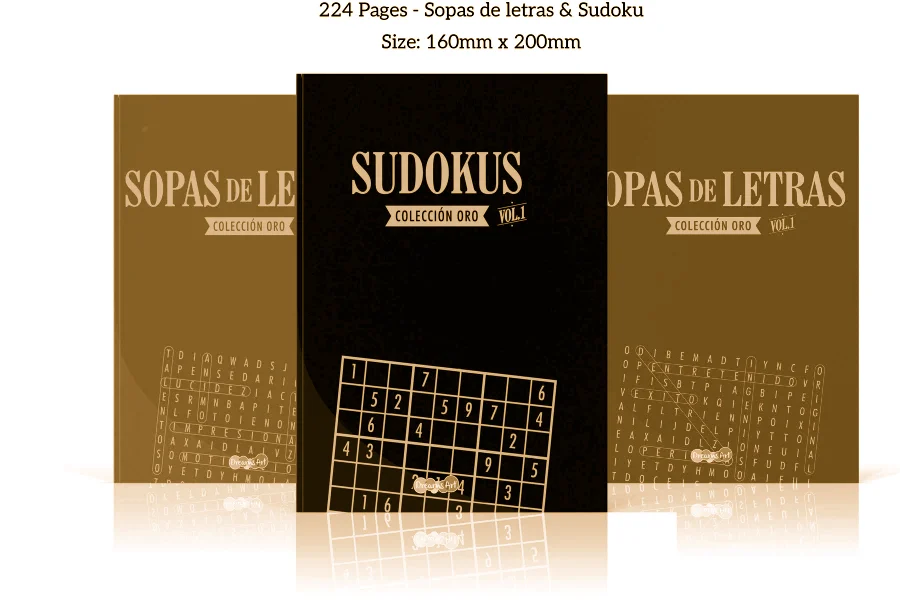
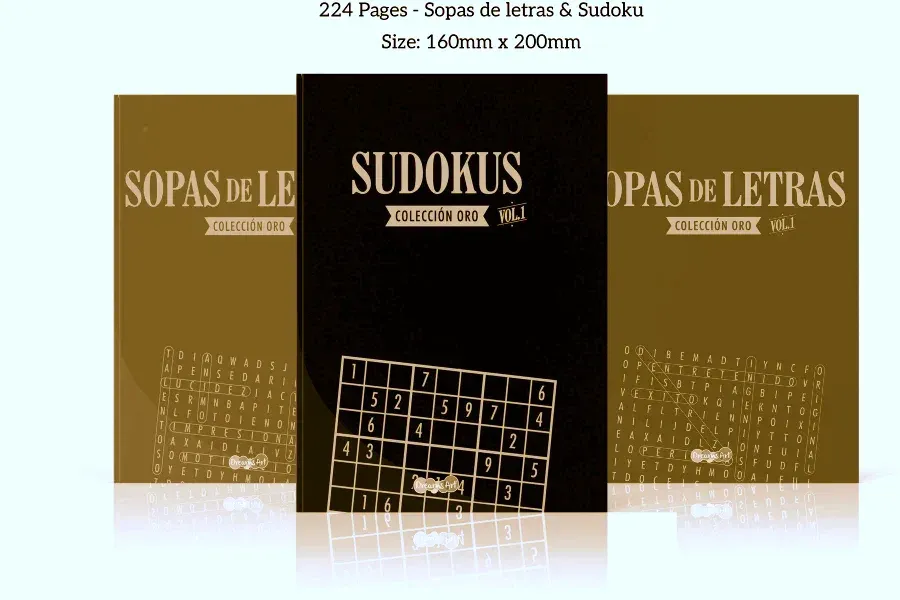
Infrastructure cards: warm gold glow-border + de-sepia'd facility photos
Rebrand the Uiverse glow-border mechanic onto the three facility cards, tuned
for the cream section ground (this band is #f0ebe0, not black):
- Card split into a transparent glow host + opaque .infra-card-inner so the
  negative-z glow sits behind the cream face even while the card lifts on hover.
- ::before crisp gold->navy gradient rim (Uiverse signature edge) + ::after soft
  blurred deep-gold backlight = warm aura on cream, premium not neon. Lower
  opacity + tighter blur than the dark-ground destinations glow so it can't wash
  out. Square corners (Ekta's law). Scale-only breathe (compositor-cheap, 60fps),
  no rotate. gold->olive variant available via [data-glow="olive"]; judged ->
  navy (ties to the core navy+gold palette, gradient gives light-like depth).
- Kill the baked-in sepia wash on the 3 facility webps: gray-world white balance
  neutralises the cast (scripts/_infra-desepia.mjs), photos now read clean and
  natural. Originals preserved in recon/infra-sepia-orig/.

Bones unchanged (image top / navy heading / body / DM Mono footer + hairline),
i18n untouched. Verify (1536x743 @user.25): axe 0, contrast PASS, CLS 0.004,
218fps, zero console errors, EN+FR + reduced-motion (glow static, simple lift).

diff --git a/src/index.css b/src/index.css
@@ -1845,26 +1845,83 @@ body {
   grid-template-columns: repeat(3, 1fr);
   gap: clamp(20px, 1.9vw, 28px);
 }
+/* card = transparent positioning + glow host; .infra-card-inner carries the cream
+   face, border, padding and elevation. Splitting them lets the glow pseudo-elements
+   sit BEHIND the opaque inner even while the host is transformed on hover — a
+   transform on the card itself would otherwise trap the negative-z glow inside it. */
 .infra-card {
+  position: relative;
+  display: flex;
+  height: 100%;
+  transition: transform 0.5s cubic-bezier(0.22, 1, 0.36, 1);
+}
+.infra-card-inner {
   display: flex;
   flex-direction: column;
-  height: 100%;
+  flex: 1;
   padding: 24px;
   border-radius: 0;
   background: #fdfaf4; /* cream card lifted off the cream2 section */
   border: 1px solid rgba(28, 32, 25, 0.06);
-  /* light-section shadow: a tight contact + a soft ambient (lighter than the
-     region cards — restrained for a light surface). */
+  /* light-section shadow: a tight contact + a restrained ambient — kept soft so the
+     warm gold glow behind reads as the dominant elevation cue on cream. */
   box-shadow:
     0 1px 2px rgba(28, 32, 25, 0.06),
-    0 10px 30px -14px rgba(15, 36, 68, 0.22);
-  transition: transform 0.5s cubic-bezier(0.22, 1, 0.36, 1), box-shadow 0.5s ease;
+    0 10px 28px -16px rgba(15, 36, 68, 0.18);
+  transition: box-shadow 0.5s ease;
 }
-.infra-card:hover {
-  transform: translateY(-4px);
+.infra-card:hover { transform: translateY(-5px); }
+.infra-card:hover .infra-card-inner {
   box-shadow:
     0 2px 4px rgba(28, 32, 25, 0.08),
-    0 22px 50px -18px rgba(15, 36, 68, 0.32);
+    0 20px 44px -20px rgba(15, 36, 68, 0.26);
+}
+
+/* ── GLOW BORDER — Uiverse mechanic, rebranded to a warm gold aura and tuned for the
+   CREAM ground (this section is #f0ebe0, not black). Two layers escape BEHIND the
+   opaque .infra-card-inner:
+     ::before — a crisp gold→navy gradient rim peeking ~3px around the square card
+                (the Uiverse signature edge; olive endpoint via [data-glow="olive"]).
+     ::after  — a soft blurred gold backlight; deep brand gold so it reads as a warm
+                aura on cream, never neon. The gold is identical in both variants —
+                only the ring's far colour (navy vs olive) changes, which is the A/B.
+   Lower opacity + tighter blur than the dark-ground destinations glow so it can't
+   wash out. A scale-only breathe keeps it alive (compositor-cheap → holds 60fps); no
+   rotate (gimmicky at this card size), no paint-animated gradient. */
+.infra-card::before,
+.infra-card::after {
+  content: '';
+  position: absolute;
+  inset: 0;
+  pointer-events: none;
+}
+.infra-card::before {
+  left: -4px;
+  margin: auto;
+  width: calc(100% + 8px);
+  height: calc(100% + 8px);
+  z-index: -2;
+  opacity: 0.52;
+  background: linear-gradient(-45deg, #9b7420 0%, #1b3a6b 100%);
+  transition: opacity 0.55s ease, transform 0.55s cubic-bezier(0.22, 1, 0.36, 1);
+}
+.infra-card::after {
+  z-index: -1;
+  opacity: 0.3;
+  background: linear-gradient(-45deg, #9b7420 0%, #6a4d10 100%);
+  filter: blur(18px);
+  transform: translate3d(0, 0, 0) scale(0.98);
+  transition: opacity 0.55s ease, filter 0.55s ease;
+  animation: infraGlowBreathe 7s ease-in-out infinite;
+}
+@keyframes infraGlowBreathe {
+  0%, 100% { transform: translate3d(0, 0, 0) scale(0.97); }
+  50%      { transform: translate3d(0, 0, 0) scale(1); }
+}
+.infra-card:hover::before { opacity: 0.8; transform: scale(1.006); }
+.infra-card:hover::after  { opacity: 0.48; filter: blur(23px); }
+.infra-cards[data-glow="olive"] .infra-card::before {
+  background: linear-gradient(-45deg, #9b7420 0%, #6b7a2a 100%);
 }
 .infra-card:hover .infra-photo-img { transform: scale(1.03); }
 /* photo breaks OUT of the card: lifted above the top edge + wider than the inner
@@ -2147,6 +2204,9 @@ body {
   .infra-video-thumb:hover { transform: none; }
   .infra-dialog { animation: none; }
   .infra-person:hover .infra-photo-img { transform: none; }
+  /* glow stays but goes static — no breathe, no scale/shift; a simple lift remains */
+  .infra-card::after { animation: none; }
+  .infra-card:hover::before { transform: none; }
 }
 
 /* ── Certifications — Alternativ port, reskinned to our palette ───────────────

diff --git a/src/sections/Infrastructure.jsx b/src/sections/Infrastructure.jsx
@@ -111,13 +111,15 @@ export default function Infrastructure() {
         </header>
 
         {/* ── THREE FACILITY CARDS — uniform vertical cards, one row ── */}
-        <div className="infra-cards">
+        <div className="infra-cards" data-glow="navy">
           {FACILITIES.map((f) => (
             <article key={f.n} className="infra-card">
-              <InfraPhoto src={`/qfp/infra/facility-${f.n}.webp`} note={t(`facilities.${f.n}.ph`)} className="infra-card-photo" />
-              <h3 className="infra-card-title">{t(`facilities.${f.n}.title`)}</h3>
-              <p className="infra-card-text">{t(`facilities.${f.n}.body`)}</p>
-              <p className="infra-card-cap">{t(`facilities.${f.n}.caption`)}</p>
+              <div className="infra-card-inner">
+                <InfraPhoto src={`/qfp/infra/facility-${f.n}.webp`} note={t(`facilities.${f.n}.ph`)} className="infra-card-photo" />
+                <h3 className="infra-card-title">{t(`facilities.${f.n}.title`)}</h3>
+                <p className="infra-card-text">{t(`facilities.${f.n}.body`)}</p>
+                <p className="infra-card-cap">{t(`facilities.${f.n}.caption`)}</p>
+              </div>
             </article>
           ))}
         </div>